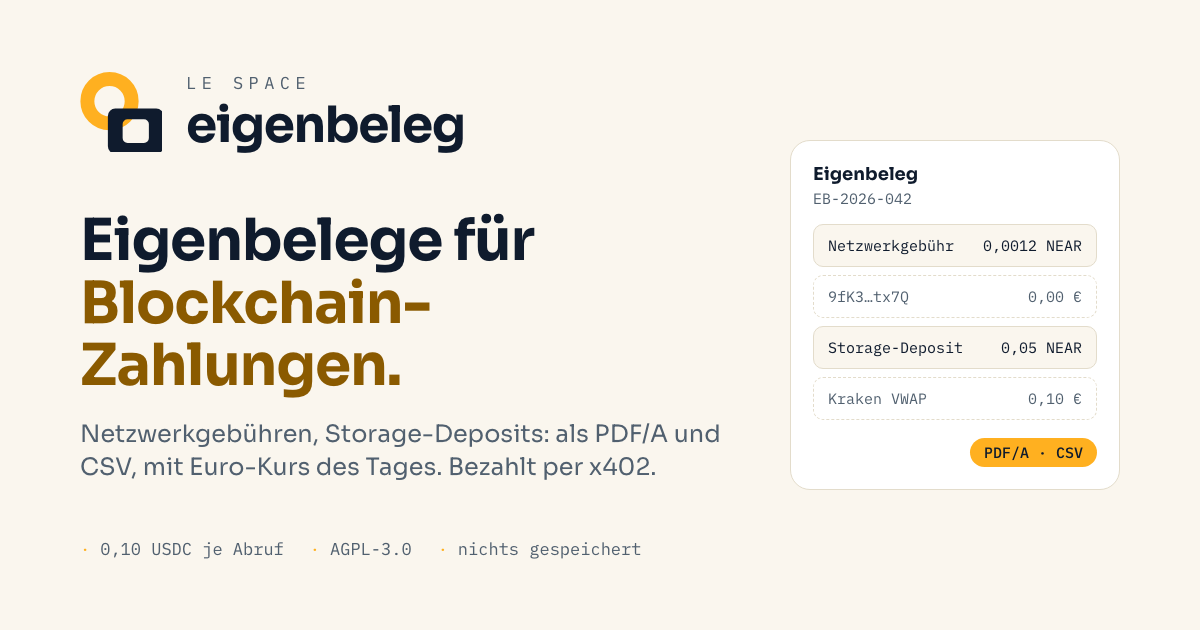
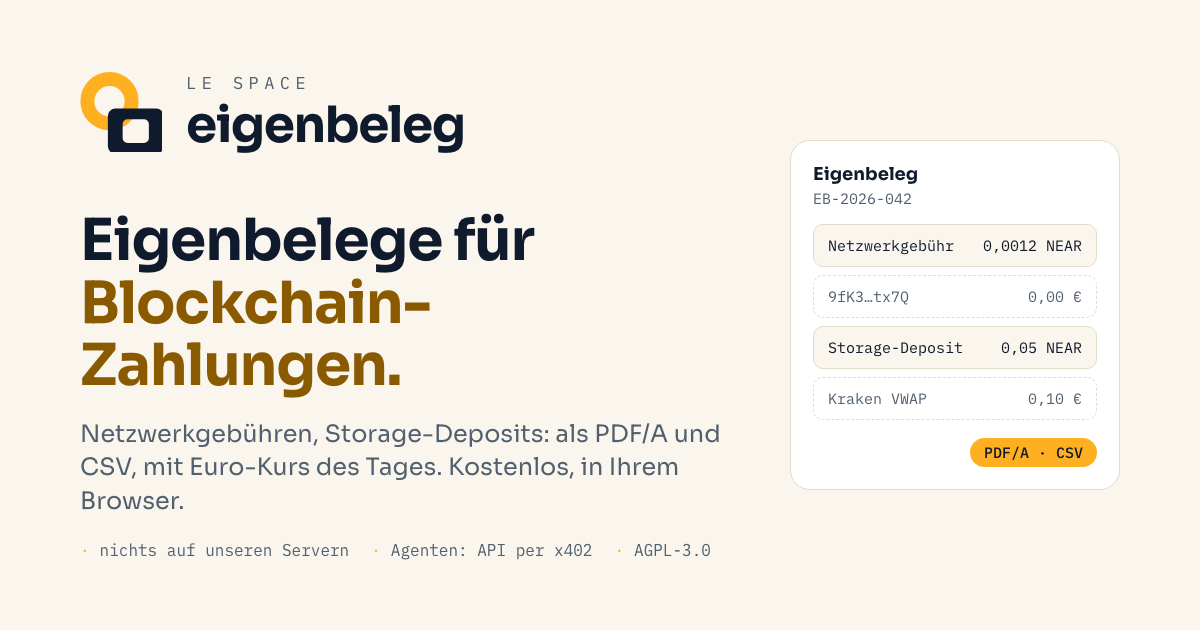
feat(web): the page says what it makes, that it is free and open, and how agents buy
- Tagline under the title: free and open source, all in the browser; a line
  on who it is for; an example Eigenbeleg next to what the result contains;
  a hint that the page installs as an app. Chains are named for people
  (NEAR, Akash, Filecoin), the value stays the block's id.
- New section "Für Agenten": the API with the same code, the price (0.10 USDC
  per request with x402, testnet for now), a prompt to brief an agent, the
  two curl lines, and the NEAR AI Agent Market.
- Footer navigation: guide, agents, /llms.txt, data sources (privacy), source.
- Share cards: they said "paid with x402, 0.10 USDC a request" from the
  wallet version; now "free, in your browser", agents by API, AGPL.

Changed region(s): [[0.0925, 0.8444, 0.555, 0.9048], [0.37, 0.7238, 0.5858, 0.754], [0.0617, 0.7841, 0.1542, 0.8143]]

diff --git a/apps/web/src/i18n.js b/apps/web/src/i18n.js
@@ -10,7 +10,23 @@ const de = {
 	lead1: 'Ein Eigenbeleg ist ein Beleg, den Sie selbst für Ihre eigenen Zahlungen ausstellen, wenn niemand eine Rechnung schickt: Netzwerkgebühren, Storage-Deposits, Zahlungen an Peer-to-Peer-Netzwerke. Er ist ',
 	lead2: 'keine Rechnung',
 	lead3: '. Ob Ihr Steuerberater ihn annimmt, entscheidet er.',
-	privacy: 'Alles geschieht in diesem Browser: Er liest die Chain, holt die Kurse und erstellt die PDFs. Name und Anschrift verlassen das Gerät nie, und kein Server von uns sieht Ihre Adressen. Kostenlos.',
+	tagline: 'Kostenlos und quelloffen. Alles in Ihrem Browser, nichts auf unseren Servern.',
+	forWhom: 'Für alle, die auf NEAR, Akash oder Filecoin bezahlen, für Hosting, Speicher oder Verträge, und dafür einen Beleg für die Buchhaltung brauchen.',
+	sampleTitle: 'So sieht das Ergebnis aus',
+	sampleText: 'Je Transaktion ein Eigenbeleg mit Hash, Von/An, allen Bewegungen, QR-Code zum Explorer und Unterschriftszeile. Je Adresse ein Kontoauszug mit Anfangssaldo, Buchungen und Endsaldo, gegen die Chain geprüft. Beides als PDF/A, dazu eine CSV für die Tabelle.',
+	privacy: 'Die Seite liest die Chain, holt die Kurse und erstellt die PDFs in diesem Browser. Name und Anschrift verlassen das Gerät nie, und kein Server von uns sieht Ihre Adressen. Der Quellcode ist offen (AGPL-3.0), jeder kann prüfen, was die Seite tut.',
+	install: 'Die Seite lässt sich als App installieren (im Browser-Menü „Installieren“ oder „Zum Home-Bildschirm“) und startet dann auch ohne Netz.',
+	hAgents: 'Für Agenten: dieselben Dokumente per API, bezahlt per x402',
+	agentsText: 'Wer einen Agenten für sich arbeiten lässt, nutzt die API. Sie prüft die Anfrage, liest, bewertet und zeichnet mit demselben Code wie diese Seite. Der Agent zahlt je Anfrage 0,10 USDC per x402, ohne Gas (derzeit auf dem NEAR-Testnet). Die Vorschau ist kostenlos, und abgebucht wird nur, wenn die Chain gelesen werden konnte.',
+	agentsPrompt: 'So beauftragen Sie zum Beispiel Claude oder einen anderen Agenten, der x402 kann:',
+	prompt: 'Besorge mir die Eigenbelege für Oktober 2026 für meine NEAR-Adresse wolkenfabrik.near von https://eigenbeleg.le-space.de. Lies zuerst https://eigenbeleg.le-space.de/llms.txt. Aussteller: Wolkenfabrik Hosting GmbH, Musterstraße 1, 12345 Beispielstadt. Zahle höchstens 0,10 USDC.',
+	agentsCurl: 'Was die API ist, was sie kostet und wie man zahlt, sagt sie selbst:',
+	agentsMore: 'Der Agent aus dem Quellcode kauft innerhalb seines Budgets, prüft die PDFs und legt eine Quittung ab. Beauftragen lässt er sich auch auf dem',
+	navGuide: 'Anleitung',
+	navAgents: 'Für Agenten',
+	navApi: 'API (llms.txt)',
+	navPrivacy: 'Datenschutz',
+	licence: 'Le Space UG · AGPL-3.0-or-later',
 	sourcesSummary: 'Welche Dienste Ihr Browser dabei fragt',
 	sourcesIntro: 'Ihr Browser fragt nur diese Dienste, direkt. Sie sehen Ihre IP-Adresse und, wo angegeben, die Adressen, die Sie eintragen; Name und Anschrift nie.',
 	learnsAddresses: 'erfährt Ihre Adressen',
@@ -46,7 +62,6 @@ const de = {
 	hResult: '2. Ergebnis',
 	signHint: 'Drucken, prüfen und unterschreiben: Ein Eigenbeleg gilt erst mit Ihrer Unterschrift.',
 	source: 'Quellcode',
-	agents: 'Für Agenten: API mit x402',
 
 	pickKind: 'Bitte mindestens eine Art wählen.',
 	needPayer: 'Bitte Name und Anschrift ausfüllen: Sie stehen auf dem Eigenbeleg und bleiben in diesem Browser.',
@@ -76,7 +91,23 @@ const en = {
 	lead1: 'An Eigenbeleg is a self-issued receipt for your own payments when nobody sends an invoice: network fees, storage deposits, payments to peer-to-peer networks. It is ',
 	lead2: 'not an invoice',
 	lead3: '. Whether your tax adviser accepts it is their call. The documents are in German, as German bookkeeping needs them.',
-	privacy: 'Everything happens in this browser: it reads the chain, fetches the rates and makes the PDFs. Name and address never leave the device, and no server of ours sees your addresses. Free.',
+	tagline: 'Free and open source. All in your browser, nothing on our servers.',
+	forWhom: 'For everyone who pays on NEAR, Akash or Filecoin, for hosting, storage or contracts, and needs a receipt for the books.',
+	sampleTitle: 'What you get',
+	sampleText: 'One Eigenbeleg per transaction, with the hash, from/to, every movement, a QR code to the explorer and a signature line. One account statement per address, with opening balance, bookings and closing balance, checked against the chain. Both as PDF/A, plus a CSV for the spreadsheet.',
+	privacy: 'The page reads the chain, fetches the rates and makes the PDFs in this browser. Name and address never leave the device, and no server of ours sees your addresses. The source code is open (AGPL-3.0), so anyone can check what the page does.',
+	install: 'The page installs as an app (browser menu: "Install" or "Add to Home Screen") and then starts without a network too.',
+	hAgents: 'For agents: the same documents through the API, paid with x402',
+	agentsText: 'Whoever has an agent work for them uses the API. It checks the request, reads, values and draws with the same code as this page. The agent pays 0.10 USDC per request with x402, without gas (on the NEAR testnet for now). The preview is free, and nothing is charged unless the chain could be read.',
+	agentsPrompt: 'This is how you brief Claude, say, or another agent that speaks x402:',
+	prompt: 'Get me the Eigenbelege for October 2026 for my NEAR address wolkenfabrik.near from https://eigenbeleg.le-space.de. Read https://eigenbeleg.le-space.de/llms.txt first. Issuer: Wolkenfabrik Hosting GmbH, Musterstraße 1, 12345 Beispielstadt. Pay at most 0.10 USDC.',
+	agentsCurl: 'What the API is, what it costs and how to pay, it says itself:',
+	agentsMore: 'The agent in the source code buys within its budget, checks the PDFs and keeps a receipt. It can also be hired on the',
+	navGuide: 'Guide',
+	navAgents: 'For agents',
+	navApi: 'API (llms.txt)',
+	navPrivacy: 'Privacy',
+	licence: 'Le Space UG · AGPL-3.0-or-later',
 	sourcesSummary: 'Which services your browser asks',
 	sourcesIntro: 'Your browser asks only these services, directly. They see your IP address and, where said, the addresses you enter; never name or postal address.',
 	learnsAddresses: 'learns your addresses',
@@ -112,7 +143,6 @@ const en = {
 	hResult: '2. Result',
 	signHint: 'Print, check and sign: an Eigenbeleg counts only with your signature.',
 	source: 'Source code',
-	agents: 'For agents: API with x402',
 
 	pickKind: 'Please pick at least one kind.',
 	needPayer: 'Please fill in name and address: they are printed on the Eigenbeleg and stay in this browser.',

diff --git a/apps/web/index.html b/apps/web/index.html
@@ -51,15 +51,34 @@
 					<button type="button" class="link" id="btn-lang" data-i18n="langSwitch" lang="en">English</button>
 				</div>
 				<h1 data-i18n="title">Eigenbeleg für Blockchain-Zahlungen</h1>
+				<p class="tagline" data-i18n="tagline">Kostenlos und quelloffen. Alles in Ihrem Browser, nichts auf unseren Servern.</p>
 				<p class="lead">
 					<span data-i18n="lead1">Ein Eigenbeleg ist ein Beleg, den Sie selbst für Ihre eigenen Zahlungen ausstellen, wenn niemand eine Rechnung schickt: Netzwerkgebühren, Storage-Deposits, Zahlungen an Peer-to-Peer-Netzwerke. Er ist </span><strong data-i18n="lead2">keine Rechnung</strong><span data-i18n="lead3">. Ob Ihr Steuerberater ihn annimmt, entscheidet er.</span>
 				</p>
-				<p class="note" data-i18n="privacy">Alles geschieht in diesem Browser: Er liest die Chain, holt die Kurse und erstellt die PDFs. Name und Anschrift verlassen das Gerät nie, und kein Server von uns sieht Ihre Adressen. Kostenlos.</p>
+				<p class="lead" data-i18n="forWhom">Für alle, die auf NEAR, Akash oder Filecoin bezahlen, für Hosting, Speicher oder Verträge, und dafür einen Beleg für die Buchhaltung brauchen.</p>
+				<figure class="sample">
+					<!-- Example data only: what one Eigenbeleg looks like, in the share card's style. -->
+					<div class="card" aria-hidden="true">
+						<div class="doc">Eigenbeleg</div>
+						<div class="no">EB-2026-042</div>
+						<div class="line"><span data-i18n="kindFee">Netzwerkgebühren</span><span>0,0012 NEAR</span></div>
+						<div class="line dash"><span>9fK3…tx7Q</span><span>0,00 €</span></div>
+						<div class="line"><span data-i18n="kindStorage">Storage-Deposits</span><span>0,05 NEAR</span></div>
+						<div class="line dash"><span>Kraken VWAP</span><span>0,10 €</span></div>
+						<span class="badge">PDF/A · CSV</span>
+					</div>
+					<figcaption>
+						<strong data-i18n="sampleTitle">So sieht das Ergebnis aus</strong>
+						<span class="note" data-i18n="sampleText">Je Transaktion ein Eigenbeleg mit Hash, Von/An, allen Bewegungen, QR-Code zum Explorer und Unterschriftszeile. Je Adresse ein Kontoauszug mit Anfangssaldo, Buchungen und Endsaldo, gegen die Chain geprüft. Beides als PDF/A, dazu eine CSV für die Tabelle.</span>
+					</figcaption>
+				</figure>
+				<p class="note" data-i18n="privacy">Die Seite liest die Chain, holt die Kurse und erstellt die PDFs in diesem Browser. Name und Anschrift verlassen das Gerät nie, und kein Server von uns sieht Ihre Adressen. Der Quellcode ist offen (AGPL-3.0), jeder kann prüfen, was die Seite tut.</p>
 				<details id="sources">
 					<summary data-i18n="sourcesSummary">Welche Dienste Ihr Browser dabei fragt</summary>
 					<p class="note" data-i18n="sourcesIntro">Ihr Browser fragt nur diese Dienste, direkt.</p>
 					<ul id="sources-list" class="note"></ul>
 				</details>
+				<p class="note" data-i18n="install">Die Seite lässt sich als App installieren (im Browser-Menü „Installieren“ oder „Zum Home-Bildschirm“) und startet dann auch ohne Netz.</p>
 			</header>
 
 			<section id="step-form" aria-labelledby="h-form">
@@ -122,11 +141,29 @@
 				<p class="note" data-i18n="signHint">Drucken, prüfen und unterschreiben: Ein Eigenbeleg gilt erst mit Ihrer Unterschrift.</p>
 			</section>
 
-			<footer>
-				<p>
-					<a href="https://github.com/Le-Space/eigenbeleg-agent" rel="noopener noreferrer" data-i18n="source">Quellcode</a> (AGPL-3.0-or-later) ·
-					<a href="https://github.com/Le-Space/eigenbeleg-agent#api" rel="noopener noreferrer" data-i18n="agents">Für Agenten: API mit x402</a>
+			<section id="agents" aria-labelledby="h-agents">
+				<h2 id="h-agents" data-i18n="hAgents">Für Agenten: dieselben Dokumente per API, bezahlt per x402</h2>
+				<p data-i18n="agentsText">Wer einen Agenten für sich arbeiten lässt, nutzt die API. Sie prüft die Anfrage, liest, bewertet und zeichnet mit demselben Code wie diese Seite. Der Agent zahlt je Anfrage 0,10 USDC per x402, ohne Gas (derzeit auf dem NEAR-Testnet). Die Vorschau ist kostenlos, und abgebucht wird nur, wenn die Chain gelesen werden konnte.</p>
+				<p class="note" data-i18n="agentsPrompt">So beauftragen Sie zum Beispiel Claude oder einen anderen Agenten, der x402 kann:</p>
+				<pre data-i18n="prompt">Besorge mir die Eigenbelege für Oktober 2026 für meine NEAR-Adresse wolkenfabrik.near von https://eigenbeleg.le-space.de. Lies zuerst https://eigenbeleg.le-space.de/llms.txt. Aussteller: Wolkenfabrik Hosting GmbH, Musterstraße 1, 12345 Beispielstadt. Zahle höchstens 0,10 USDC.</pre>
+				<p class="note" data-i18n="agentsCurl">Was die API ist, was sie kostet und wie man zahlt, sagt sie selbst:</p>
+				<pre>curl https://eigenbeleg.le-space.de/
+curl https://eigenbeleg.le-space.de/llms.txt</pre>
+				<p class="note">
+					<span data-i18n="agentsMore">Der Agent aus dem Quellcode kauft innerhalb seines Budgets, prüft die PDFs und legt eine Quittung ab. Beauftragen lässt er sich auch auf dem</span>
+					<a href="https://market.near.ai" rel="noopener noreferrer">NEAR AI Agent Market</a>.
 				</p>
+			</section>
+
+			<footer>
+				<nav aria-label="Seiten">
+					<a href="https://github.com/Le-Space/eigenbeleg-agent/blob/main/docs/web-ui.md" rel="noopener noreferrer" data-i18n="navGuide">Anleitung</a>
+					<a href="#agents" data-i18n="navAgents">Für Agenten</a>
+					<a href="https://eigenbeleg.le-space.de/llms.txt" data-i18n="navApi">API (llms.txt)</a>
+					<a href="#sources" data-i18n="navPrivacy">Datenschutz</a>
+					<a href="https://github.com/Le-Space/eigenbeleg-agent" rel="noopener noreferrer" data-i18n="source">Quellcode</a>
+				</nav>
+				<p data-i18n="licence">Le Space UG · AGPL-3.0-or-later</p>
 			</footer>
 		</main>
 		<script type="module" src="/src/main.js"></script>

diff --git a/apps/web/src/style.css b/apps/web/src/style.css
@@ -52,6 +52,20 @@ main { max-width: 46rem; margin: 0 auto; padding: 1.25rem 1rem 3rem; }
 h1 { font-size: 1.9rem; line-height: 1.15; font-weight: 700; letter-spacing: -0.015em; margin: 1.5rem 0 0.75rem; }
 h2 { font-size: 1.25rem; font-weight: 600; letter-spacing: -0.01em; margin: 1.25rem 0 0.75rem; }
 .lead { margin: 0 0 0.5rem; }
+.tagline { font-weight: 600; font-size: 1.1rem; margin: 0 0 0.75rem; }
+
+/* The example Eigenbeleg next to what the page makes (the share card's style). */
+.sample { display: flex; gap: 1.25rem; align-items: flex-start; flex-wrap: wrap; margin: 1rem 0; }
+.sample .card {
+	flex: none; width: 16.5rem; max-width: 100%; background: var(--surface); border: 1px solid var(--line); border-radius: 16px;
+	padding: 0.9rem; font-family: var(--mono); font-size: 0.78rem; box-shadow: var(--shadow);
+}
+.sample .doc { font-family: var(--font); font-weight: 700; font-size: 0.95rem; }
+.sample .no { color: var(--muted); margin-bottom: 0.6rem; }
+.sample .line { display: flex; justify-content: space-between; gap: 0.5rem; padding: 0.4rem 0.6rem; background: var(--bg); border: 1px solid var(--line); border-radius: 8px; margin-bottom: 0.35rem; }
+.sample .line.dash { background: transparent; border-style: dashed; color: var(--muted); }
+.sample .badge { float: right; margin-top: 0.3rem; background: var(--accent); color: var(--accent-ink); border-radius: 999px; padding: 0.15rem 0.7rem; font-weight: 500; }
+.sample figcaption { flex: 1 1 14rem; display: flex; flex-direction: column; gap: 0.35rem; }
 .note { color: var(--muted); font-size: 0.9rem; }
 
 .top { display: flex; justify-content: space-between; align-items: center; gap: 1rem; flex-wrap: wrap; }
@@ -102,5 +116,7 @@ code, pre { font-family: var(--mono); }
 pre { overflow-x: auto; background: var(--bg); border: 1px solid var(--line); border-radius: 10px; padding: 0.75rem; font-size: 0.85rem; white-space: pre-wrap; overflow-wrap: anywhere; }
 a { color: var(--link); overflow-wrap: anywhere; }
 footer { margin-top: 2rem; color: var(--muted); font-size: 0.85rem; }
+footer nav { display: flex; gap: 0.4rem 1.1rem; flex-wrap: wrap; }
+footer p { margin: 0.5rem 0 0; }
 [hidden] { display: none !important; }
 @media (max-width: 30rem) { .summary { grid-template-columns: 1fr; } .summary dd { margin-bottom: 0.4rem; } }

diff --git a/scripts/video/social.html b/scripts/video/social.html
@@ -21,7 +21,7 @@
 			h1 { font-size: 58px; line-height: 1.08; letter-spacing: -0.02em; font-weight: 700; margin: 58px 0 20px; }
 			h1 em { font-style: normal; color: var(--amber-text); }
 			.sub { font-size: 24px; line-height: 1.4; color: var(--slate); margin: 0; }
-			.facts { margin-top: auto; font-family: 'Plex'; font-size: 17px; color: var(--slate); display: flex; gap: 26px; }
+			.facts { margin-top: auto; font-family: 'Plex'; font-size: 16px; color: var(--slate); display: flex; gap: 22px; white-space: nowrap; }
 			.facts span::before { content: '·'; color: var(--amber); margin-right: 10px; }
 			.right { width: 330px; flex: none; background: var(--surface); border: 1px solid var(--line); border-radius: 20px; padding: 22px; font-family: 'Plex'; font-size: 15px; }
 			.doc { font-family: 'Sora'; font-weight: 700; font-size: 18px; margin-bottom: 4px; }

diff --git a/apps/web/src/main.js b/apps/web/src/main.js
@@ -65,8 +65,11 @@ function lastMonth() {
 	return d.toISOString().slice(0, 7);
 }
 
+/** How the chains are written for people; the value stays the block's id. */
+const CHAIN_NAMES = /** @type {Record<string, string>} */ ({ near: 'NEAR', akash: 'Akash (AKT)', filecoin: 'Filecoin (FIL, USDFC)' });
+
 function fillChains() {
-	chainSel.replaceChildren(...blocks.map((b) => new Option(b.chain, b.chain)));
+	chainSel.replaceChildren(...blocks.map((b) => new Option(CHAIN_NAMES[b.chain] ?? b.chain, b.chain)));
 	fillNetworks();
 }
 

diff --git a/README.md b/README.md
@@ -119,7 +119,7 @@ A run like this on 6 Nov 2026: [`Aqxuj1QQ…ynUX`](https://testnet.nearblocks.io
 
 For people, free: the page does **everything in your browser**. It reads the chain from the public data sources itself, fetches the EUR rates, and draws the Eigenbelege, the Kontoauszug and the CSV on your device, with the same code the API runs ([`@eigenbeleg/pipeline`](packages/pipeline)). Nothing goes to a server of ours: not your name, not your address, not your blockchain addresses. It installs as an app (PWA) and runs from any static host. Plan: [#5](https://github.com/Le-Space/eigenbeleg-agent/issues/5); concept: [docs/web-ui.md](docs/web-ui.md).
 
-1. Open **https://eigenbeleg.le-space.de/ui/**. You see the form in German, or in English if your browser is set to another language; **English** / **Deutsch** at the top right switches (the PDFs stay German). *Welche Dienste Ihr Browser dabei fragt* lists every host the page will ask and what each learns.
+1. Open **https://eigenbeleg.le-space.de/ui/**. You see what the page makes (an example Eigenbeleg), the form, and below it *Für Agenten* with the price and a prompt to brief an agent; the footer links the guide, `/llms.txt`, the data sources and the source code. German, or English if your browser is set to another language; **English** / **Deutsch** at the top right switches (the PDFs stay German). *Welche Dienste Ihr Browser dabei fragt* lists every host the page will ask and what each learns.
 
    Locally instead:
    ```bash
